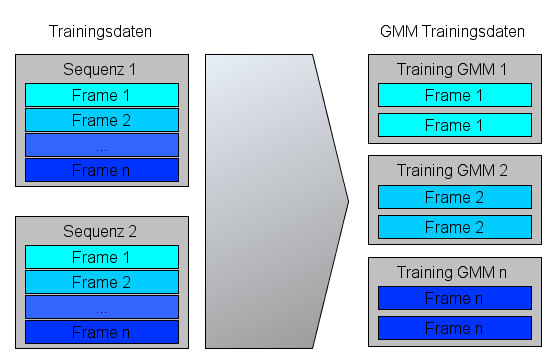
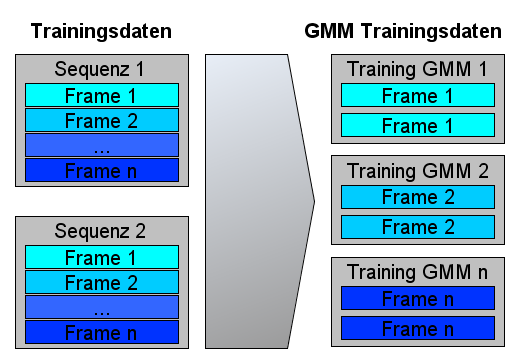
markov: datentransformation

diff --git a/expose/src/sections/03_markov.tex b/expose/src/sections/03_markov.tex
@@ -54,19 +54,19 @@ Die Wahrscheinlichkeit für \( k \)-Schritte lässt sich so ausrechnen:
 \[ X_k = X_{k-1} A = X_0 A^k \] 
 
 
-\textbf{Beispiel} \\
-\acl{MK} für die Wahrscheinlichkeit des Wetters \footnote{Quelle: \url{en.wikipedia.org/wiki/Examples_of_Markov_chains}} \\
+\textbf{Beispiel:} 
+\textit{ \acl{MK} für das Wetter \footnote{Quelle: \url{en.wikipedia.org/wiki/Examples_of_Markov_chains}}} \\
 Im folgenden Beispiel soll aufgrund des aktuellen Wetters auf das Wetter der folgenden Tage geschlossen werden.
-Das Wetter kann entweder ``sonnig'' oder ``regnerisch'' sein, zu Beginn (Tag 0, \( t = 0 \)) des Experiments ist es ``sonnig''.
-Die Wahrscheinlichkeit, dass auf ``sonnig'' wieder ``sonnig'' folgt, liegt bei 90\% (``regnerisch'' = 1 - ``sonnig'' = 10\%). 
-Nach ``regnerisch'' liegt die Wahrscheinlichkeit jeweils bei 50\%.  
+Das Wetter kann entweder ``sunny'' oder ``rainy'' sein, zu Beginn (Tag 0, \( t = 0 \)) des Experiments ist es ``sunny''.
+Die Wahrscheinlichkeit, dass auf ``sunny'' wieder ``sunny'' folgt, liegt bei 90\% (``rainy'' = 1 - ``sunny'' = 10\%). 
+Nach ``rainy'' liegt die Wahrscheinlichkeit jeweils bei 50\%.  
 \begin{figure}[htbp] \centering
     \includegraphics[width=0.4\textwidth]{markov/simple_mc_example.png}
     \caption{ Gerichteter Zustandsgraph der modellierten Wetter-\acl{MK} }
     \label{fig:simple_mc_example}
 \end{figure}
 
-\[ Zustände: S = [``sonnig'', ``regnerisch''] \]
+\[ Zustände: S = [``sunny'', ``rainy''] \]
 \[ Anfangszustand:  \Pi = X_0 = [1 , 0] \]
 \[Übergangsmatrix: A = \begin {bmatrix} 0.9&0.1\\0.5&0.5 \end {bmatrix} \]
 
@@ -218,20 +218,21 @@ Diese Vorverarbeitung wird in der Klasse \texttt{DataUtil} durchgeführt und nut
     \label{fig:uml}
 \end{figure*}
 
+
 Die \texttt{HMM}-Klasse implementiert das Interface \texttt{IClassifier} und bildet die Schnittstelle zur Hauptapplikation. Sie nutzt \texttt{DataUtil}
  für alle Dateizugriffe und die \texttt{Plot}-Klasse, um diese Daten als Graphen darzustellen. Herzstück der HMM-Package-Logik für das erstellen eines
   \acl{HMM} ist die \texttt{GestureApllication}-Klasse, welche eine Liste von \texttt{Gesture}-Beans vorhält. Diese Beans repräsentieren alle Daten die für 
  die Klassifizierung notwendig sind. Für das Training nutzt \texttt{GestureApplication} die \texttt{HMM\_Util}-Klasse.
 
-Verwendet werden Objekte der Klassen \testtt{sklearn.hmm.GMMHMM} und \texttt{sklearn.mixture.GMM} aus \texttt{scikit-learn}-Bibliothek \url{scikit-learn.org}.
+Verwendet werden Objekte der Klassen \texttt{sklearn.hmm.GMMHMM} und \texttt{sklearn.mixture.GMM} aus \texttt{scikit-learn}-Bibliothek \url{scikit-learn.org}.
 \texttt{HMM\_Util} erstellt mit Hilfe der \texttt{GMM\_Util}-Klasse zuallererst eine List von trainierten \acl{GMM}s. Dazu werden die eingehenden Daten 
 neu transformiert und nach Frames sortiert (siehe Abb. \ref{fig:data_gmm}). Somit repräsentiert ein \acl{GMM} einen Zeitpunkt während der Aufnahme 
 (siehe Abb. \ref{fig:gmm_data}). Die trainierten \acl{GMM}s werden nun für das Training eines \acl{HMM} genutzt. Um beim Trainingsprozess eingreifen zu können
-wurden die \testtt{sklearn}-Klassen erweitert, so entstehen die Klassen \testtt{GestureHMM} und \testtt{GestureGMM}. Dies ist notwendig, da die fertig trainierten
+wurden die \texttt{sklearn}-Klassen erweitert, so entstehen die Klassen \texttt{GestureHMM} und \texttt{GestureGMM}. Dies ist notwendig, da die fertig trainierten
 \acl{GMM}s während des \acl{HMM} Trainings noch einmal verändert werden - was allerdings unerwünscht ist. 
 
 \begin{figure}[htbp] \centering
-    \includegraphics[width=0.6\textwidth]{markov/gmm_data.png}
+    \includegraphics[width=0.5\textwidth]{markov/gmm_data.png}
     \caption{Transformation für das Training der \acl{GMM}}
     \label{fig:gmm_data}
 \end{figure}
@@ -250,4 +251,7 @@ kann und ursprünglich für die Spracherkennung entwickelt wurde. Ob nun aus ein
 eine Geste (Emissionen) erkannt werden soll, ist vom Vorgehen ähnlich. Ein Vorteil ist zudem, dass die Ausführungsgeschwindigkeit
  der Geste, bei geeigneter Aufnahmelänge, die Klassifizierung nicht unbedingt beeinflusst, da dann länger im selben versteckten 
  Zustand verblieben wird.
-Ein Nachteil dieser Methode ist, dass keine absoluten Klassifizierungen durchgeführt werden können. Es werden nur Wahrscheinlichkeiten für alle möglichen Klasse berechnet. So muss entschieden werden, ob die Wahrscheinlichkeit für eine Klasse hoch genug ist, sodass diese als Geste identifiziert werden kann.
+Ein Nachteil dieser Methode ist, dass keine absoluten Klassifizierungen durchgeführt werden können. Es werden nur Wahrscheinlichkeiten für alle möglichen Klasse berechnet. 
+So muss entschieden werden, ob die Wahrscheinlichkeit für eine Klasse hoch genug ist, sodass diese als Geste identifiziert werden kann.
+
+
